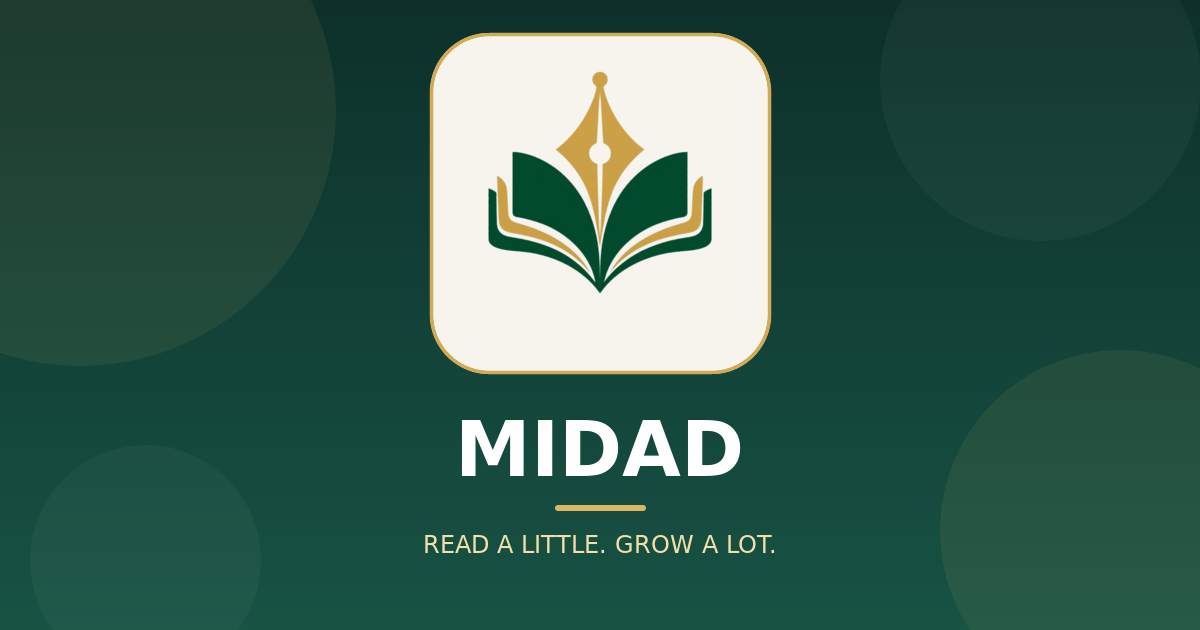
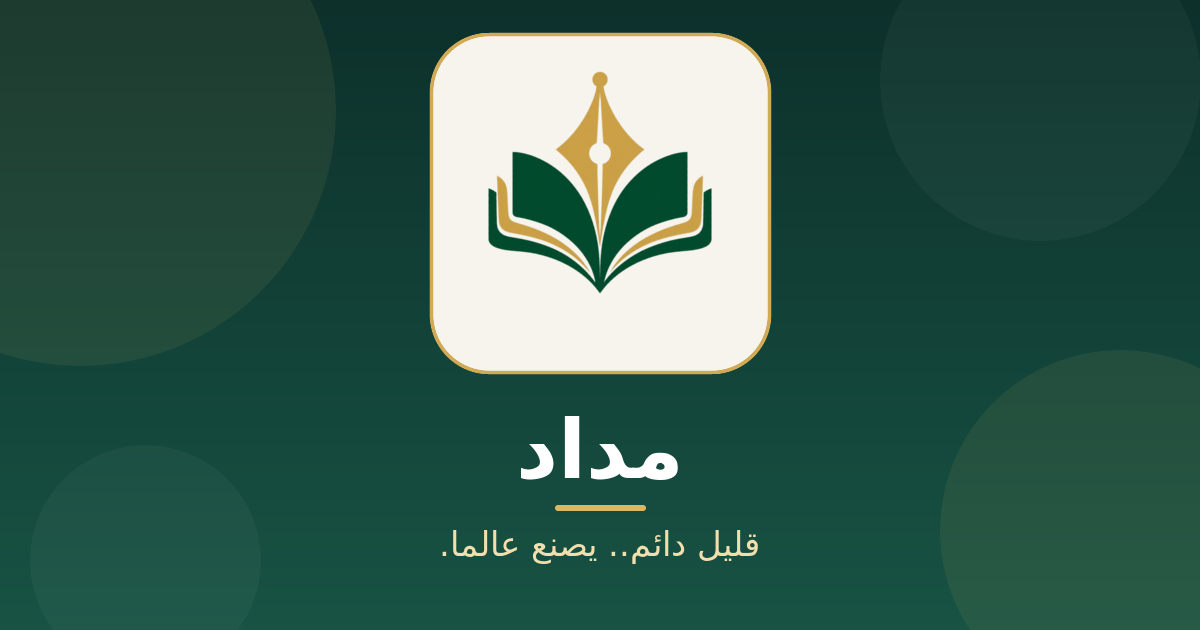
Improve reader fullscreen and timing flow

Changed region(s): [[0.37, 0.6635, 0.6167, 0.7841], [0.3392, 0.8444, 0.6475, 0.9048]]

diff --git a/src/reader.js b/src/reader.js
@@ -4,7 +4,7 @@ import { supabase, toast, escapeHtml, toArabicDigits } from './lib.js';
 
 pdfjsLib.GlobalWorkerOptions.workerSrc = workerUrl;
 
-const TOO_FAST_MSG = 'لم يكتمل وقت هذه الصفحة بعد. ابقَ عليها حتى ينتهي العداد؛ ستبقى في الصفحة نفسها.';
+const TOO_FAST_MSG = 'صايدينك! 🧐 ما شاء الله تقرأ بسرعة الضوء؟ ارجع كمّل الصفحة لا تتحمس.';
 const PENDING_KEY = 'midad_pending_confirm';
 
 function getPending() {
@@ -20,32 +20,25 @@ export async function renderReader(view, assignmentId) {
   let assignment = null;
   let book = null;
   let session = null;
-  let minSeconds = 60;
   let position = 0;
-  let pageShownAt = 0;
   let pageReady = false;
   let navigationInFlight = false;
   let finishing = false;
   let disposed = false;
   let renderVersion = 0;
   let renderTask = null;
-  let pageTimer = null;
+  let lastRenderWidth = 0;
   let resizeTimer = null;
   let resizeHandler = null;
   let onlineHandler = null;
   let hashChangeHandler = null;
+  let fullscreenHandler = null;
 
   const total = () => assignment.end_page - assignment.start_page + 1;
-
-  function clearPageTimer() {
-    if (pageTimer) clearInterval(pageTimer);
-    pageTimer = null;
-  }
 
   function cleanup() {
     if (disposed) return;
     disposed = true;
-    clearPageTimer();
     if (resizeTimer) clearTimeout(resizeTimer);
     try { renderTask?.cancel(); } catch { /* render may already have completed */ }
     renderTask = null;
@@ -56,6 +49,14 @@ export async function renderReader(view, assignmentId) {
     if (resizeHandler) window.removeEventListener('resize', resizeHandler);
     if (onlineHandler) window.removeEventListener('online', onlineHandler);
     if (hashChangeHandler) window.removeEventListener('hashchange', hashChangeHandler);
+    if (fullscreenHandler) document.removeEventListener('fullscreenchange', fullscreenHandler);
+    document.body.classList.remove('reader-fallback-fullscreen');
+    if (document.fullscreenElement === view) {
+      try {
+        const exitPromise = document.exitFullscreen?.();
+        if (exitPromise?.catch) exitPromise.catch(() => {});
+      } catch { /* fullscreen may already be closing */ }
+    }
   }
 
   function showMsg(text) {
@@ -65,39 +66,39 @@ export async function renderReader(view, assignmentId) {
 
   function updateNextAvailability() {
     const button = view.querySelector('#next-btn');
-    const hint = view.querySelector('#page-timer');
     if (!button) return;
-    if (disposed || navigationInFlight) {
-      button.disabled = true;
-      return;
-    }
-    if (!pageReady) {
-      button.disabled = true;
-      if (hint) hint.textContent = 'جارٍ عرض الصفحة…';
-      return;
-    }
-    if (position < session.current_position) {
-      button.disabled = false;
-      if (hint) hint.textContent = '';
-      return;
-    }
-
-    const remaining = Math.max(0, minSeconds - (Date.now() - pageShownAt) / 1000);
-    const seconds = Math.ceil(remaining);
-    button.disabled = remaining > 0;
-    if (hint) hint.textContent = remaining > 0
-      ? `يمكن الانتقال بعد ${toArabicDigits(seconds)} ثانية`
-      : '';
+    // Keep Next available at all times; the server decides whether enough time passed.
+    button.disabled = false;
+    button.setAttribute('aria-busy', String(navigationInFlight));
+    if (navigationInFlight) button.title = 'جارٍ التحقق من الصفحة…';
+    else button.removeAttribute('title');
   }
 
-  function startPageTimer() {
-    clearPageTimer();
-    updateNextAvailability();
-    if (!pageReady || position < session.current_position || minSeconds <= 0) return;
-    pageTimer = setInterval(() => {
-      updateNextAvailability();
-      if (Date.now() - pageShownAt >= minSeconds * 1000) clearPageTimer();
-    }, 250);
+  function updateFullscreenButton() {
+    const button = view.querySelector('#fullscreen-btn');
+    if (!button) return;
+    const active = document.fullscreenElement === view
+      || document.body.classList.contains('reader-fallback-fullscreen');
+    const label = button.querySelector('.fullscreen-label');
+    if (label) label.textContent = active ? 'إنهاء ملء الشاشة' : 'ملء الشاشة';
+    button.setAttribute('aria-pressed', String(active));
+  }
+
+  async function toggleFullscreen() {
+    const fallbackActive = document.body.classList.contains('reader-fallback-fullscreen');
+    if (document.fullscreenElement === view) {
+      try { await document.exitFullscreen(); } catch { /* browser may exit via Esc */ }
+    } else if (fallbackActive) {
+      document.body.classList.remove('reader-fallback-fullscreen');
+    } else {
+      try {
+        if (typeof view.requestFullscreen !== 'function') throw new Error('Fullscreen API unavailable');
+        await view.requestFullscreen();
+      } catch {
+        document.body.classList.add('reader-fallback-fullscreen');
+      }
+    }
+    updateFullscreenButton();
   }
 
   function cancelRender() {
@@ -107,7 +108,7 @@ export async function renderReader(view, assignmentId) {
     return renderVersion;
   }
 
-  function draw({ resetPageTimer = true } = {}) {
+  function draw() {
     if (disposed || !assignment || !book || !session) return;
     const pageCount = total();
     if (pageCount <= 0) return;
@@ -115,10 +116,6 @@ export async function renderReader(view, assignmentId) {
     const pdfPage = assignment.start_page + position;
     const renderToken = cancelRender();
     pageReady = false;
-    if (resetPageTimer) {
-      pageShownAt = 0;
-      clearPageTimer();
-    }
 
     const remaining = Math.max(0, pageCount - session.current_position);
     view.innerHTML = `
@@ -130,7 +127,12 @@ export async function renderReader(view, assignmentId) {
               صفحة PDF ${toArabicDigits(pdfPage)} · التقدم: ${toArabicDigits(session.current_position)} من ${toArabicDigits(pageCount)}
             </div>
           </div>
-          <a class="btn btn-sm" href="#/member">رجوع</a>
+          <div class="row reader-actions">
+            <button type="button" class="btn btn-sm" id="fullscreen-btn" aria-pressed="false">
+              <span aria-hidden="true">⛶</span><span class="fullscreen-label">ملء الشاشة</span>
+            </button>
+            <a class="btn btn-sm" href="#/member">رجوع</a>
+          </div>
         </div>
         <div class="reader-canvas-box" id="canvas-box" style="margin-top:10px">
           <canvas id="page-canvas" aria-label="صفحة الكتاب ${toArabicDigits(pdfPage)}"></canvas>
@@ -140,12 +142,12 @@ export async function renderReader(view, assignmentId) {
           <button type="button" class="btn" id="prev-btn" ${position === 0 ? 'disabled' : ''}>السابق</button>
           <span class="small muted">المتبقي: ${toArabicDigits(remaining)} ${remaining === 1 ? 'صفحة' : 'صفحات'}</span>
           <button type="button" class="btn btn-primary" id="next-btn">${position === pageCount - 1 ? 'إنهاء القراءة' : 'التالي'}</button>
-          <span class="small muted reader-timer" id="page-timer" aria-live="polite"></span>
         </div>
       </div>`;
 
     updateNextAvailability();
-    void renderCurrentPage(renderToken, pdfPage, resetPageTimer);
+    updateFullscreenButton();
+    void renderCurrentPage(renderToken, pdfPage);
 
     view.querySelector('#prev-btn').addEventListener('click', () => {
       if (navigationInFlight || position <= 0) return;
@@ -153,6 +155,7 @@ export async function renderReader(view, assignmentId) {
       draw();
     });
     view.querySelector('#next-btn').addEventListener('click', onNext);
+    view.querySelector('#fullscreen-btn').addEventListener('click', () => void toggleFullscreen());
 
     const box = view.querySelector('#canvas-box');
     let touchX = null;
@@ -173,7 +176,7 @@ export async function renderReader(view, assignmentId) {
     }, { passive: true });
   }
 
-  async function renderCurrentPage(renderToken, pdfPageNumber, resetPageTimer = false) {
+  async function renderCurrentPage(renderToken, pdfPageNumber) {
     const canvas = view.querySelector('#page-canvas');
     if (!canvas || !pdf || disposed) return;
     try {
@@ -181,6 +184,7 @@ export async function renderReader(view, assignmentId) {
       if (disposed || renderToken !== renderVersion || !canvas.isConnected) return;
 
       const containerWidth = canvas.parentElement?.clientWidth || view.clientWidth || window.innerWidth;
+      lastRenderWidth = containerWidth;
       const baseViewport = page.getViewport({ scale: 1 });
       const viewport = page.getViewport({ scale: containerWidth / baseViewport.width });
       const outputScale = Math.min(Math.max(window.devicePixelRatio || 1, 1), 2.5);
@@ -196,9 +200,8 @@ export async function renderReader(view, assignmentId) {
       await currentTask.promise;
       if (disposed || renderToken !== renderVersion || !canvas.isConnected) return;
 
-      if (resetPageTimer || !pageShownAt) pageShownAt = Date.now();
       pageReady = true;
-      startPageTimer();
+      updateNextAvailability();
     } catch (error) {
       if (error?.name === 'RenderingCancelledException' || error?.name === 'AbortException') return;
       if (!disposed && renderToken === renderVersion) {
@@ -230,9 +233,6 @@ export async function renderReader(view, assignmentId) {
     const bookResult = await supabase.from('books').select('*').eq('id', assignment.book_id).single();
     if (bookResult.error) throw bookResult.error;
     book = bookResult.data;
-
-    const settingsResult = await supabase.from('app_settings').select('min_page_seconds').eq('id', 1).maybeSingle();
-    if (settingsResult.data) minSeconds = Math.max(0, Number(settingsResult.data.min_page_seconds) || 0);
 
     const { data: signed, error: signError } = await supabase.storage
       .from('books').createSignedUrl(book.storage_path, 3600);
@@ -275,7 +275,11 @@ export async function renderReader(view, assignmentId) {
 
   async function onNext() {
     const button = view.querySelector('#next-btn');
-    if (!button || button.disabled || navigationInFlight || disposed || !pageReady) return;
+    if (!button || navigationInFlight || disposed) return;
+    if (!pageReady) {
+      showMsg('جارٍ عرض الصفحة؛ جرّب الضغط مجددًا بعد اكتمال العرض.');
+      return;
+    }
     if (session.status === 'completed' || session.current_position >= total()) {
       await finishReading();
       return;
@@ -293,14 +297,9 @@ export async function renderReader(view, assignmentId) {
       return;
     }
 
-    if ((Date.now() - pageShownAt) / 1000 < minSeconds) {
-      updateNextAvailability();
-      showMsg(TOO_FAST_MSG);
-      return;
-    }
-
     navigationInFlight = true;
     updateNextAvailability();
+    showMsg('جارٍ التحقق من الصفحة…');
     try {
       const confirmation = await confirmCurrentPage();
       if (disposed) return;
@@ -321,11 +320,9 @@ export async function renderReader(view, assignmentId) {
       if (disposed) return;
       const message = String(error?.message || '');
       if (message.includes('too_fast')) {
-        // Keep the same page visible and wait again; a rejected confirmation
-        // must not reset or move the reader to an earlier page.
-        pageShownAt = Date.now();
+        // The server remains authoritative; rejected attempts never advance or
+        // redraw the current page, and the student can continue reading.
         showMsg(TOO_FAST_MSG);
-        startPageTimer();
       } else if (message.includes('wrong_order') || message.includes('already_finished') || message.includes('already_completed')) {
         try { await syncSessionFromServer(); }
         catch (syncError) { toast('تعذر مزامنة التقدم: ' + syncError.message, 'error'); }
@@ -395,6 +392,9 @@ export async function renderReader(view, assignmentId) {
       });
       let confirmed = !error;
       let freshSession = null;
+      if (error && String(error.message || '').includes('too_fast') && session?.id === pending.session_id) {
+        showMsg(TOO_FAST_MSG);
+      }
       if (error && ['wrong_order', 'already_finished', 'already_completed'].some((code) => String(error.message || '').includes(code))) {
         const result = await supabase.from('reading_sessions').select('*').eq('id', pending.session_id).single();
         freshSession = result.data;
@@ -440,20 +440,27 @@ export async function renderReader(view, assignmentId) {
   resizeHandler = () => {
     if (resizeTimer) clearTimeout(resizeTimer);
     resizeTimer = setTimeout(() => {
-      if (disposed || !pdf || !view.querySelector('#page-canvas')) return;
+      const canvas = view.querySelector('#page-canvas');
+      if (disposed || !pdf || !canvas) return;
+      const width = canvas.parentElement?.clientWidth || view.clientWidth || window.innerWidth;
+      // Mobile browser chrome can trigger frequent height-only resize events.
+      // Redraw only when the actual PDF viewport width changed.
+      if (Math.abs(width - lastRenderWidth) < 2) return;
       const token = cancelRender();
       pageReady = false;
       updateNextAvailability();
-      void renderCurrentPage(token, assignment.start_page + position, false);
+      void renderCurrentPage(token, assignment.start_page + position);
     }, 250);
   };
   onlineHandler = flushPending;
   hashChangeHandler = () => {
     if (location.hash !== `#/read/${assignmentId}`) cleanup();
   };
+  fullscreenHandler = updateFullscreenButton;
   window.addEventListener('resize', resizeHandler);
   window.addEventListener('online', onlineHandler);
   window.addEventListener('hashchange', hashChangeHandler);
+  document.addEventListener('fullscreenchange', fullscreenHandler);
 
   try {
     await load();

diff --git a/index.html b/index.html
@@ -17,8 +17,8 @@
   <meta property="og:url" content="https://mohammedalhinaki-cloud.github.io/midad-kimi/" />
   <meta property="og:title" content="مِداد — قليلٌ دائم.. يصنع عالِماً." />
   <meta property="og:description" content="مساحة عربية للقراءة الجماعية؛ نقرأ قليلاً كل يوم ونصنع أثراً يدوم." />
-  <meta property="og:image" content="https://mohammedalhinaki-cloud.github.io/midad-kimi/og-image.png" />
-  <meta property="og:image:secure_url" content="https://mohammedalhinaki-cloud.github.io/midad-kimi/og-image.png" />
+  <meta property="og:image" content="https://mohammedalhinaki-cloud.github.io/midad-kimi/og-image-ar.png" />
+  <meta property="og:image:secure_url" content="https://mohammedalhinaki-cloud.github.io/midad-kimi/og-image-ar.png" />
   <meta property="og:image:type" content="image/png" />
   <meta property="og:image:width" content="1200" />
   <meta property="og:image:height" content="630" />
@@ -26,7 +26,7 @@
   <meta name="twitter:card" content="summary_large_image" />
   <meta name="twitter:title" content="مِداد — قليلٌ دائم.. يصنع عالِماً." />
   <meta name="twitter:description" content="مساحة عربية للقراءة الجماعية؛ نقرأ قليلاً كل يوم ونصنع أثراً يدوم." />
-  <meta name="twitter:image" content="https://mohammedalhinaki-cloud.github.io/midad-kimi/og-image.png" />
+  <meta name="twitter:image" content="https://mohammedalhinaki-cloud.github.io/midad-kimi/og-image-ar.png" />
   <link rel="preconnect" href="https://fonts.googleapis.com" />
   <link rel="preconnect" href="https://fonts.gstatic.com" crossorigin />
   <link href="https://fonts.googleapis.com/css2?family=IBM+Plex+Sans+Arabic:wght@400;500;600;700&display=swap" rel="stylesheet" />

diff --git a/src/style.css b/src/style.css
@@ -216,7 +216,15 @@ p { margin: 6px 0; }
 .reader-canvas-box { width: 100%; background: #111; border-radius: var(--radius); overflow: hidden; }
 .reader-canvas-box canvas { display: block; width: 100%; height: auto; background: #fff; }
 .reader-bar { display: flex; align-items: center; justify-content: space-between; gap: 8px; margin-top: 10px; flex-wrap: wrap; }
-.reader-timer { min-width: 100%; text-align: center; }
+.reader-actions { gap: 6px; }
+.reader-page:fullscreen { width: 100%; height: 100%; min-height: 100%; overflow-y: auto; background: var(--bg); }
+.reader-page:fullscreen .reader-wrap { min-height: 100%; padding: 12px; }
+body.reader-fallback-fullscreen { overflow: hidden; }
+body.reader-fallback-fullscreen .topbar { display: none !important; }
+body.reader-fallback-fullscreen .reader-page {
+  position: fixed; inset: 0; z-index: 1001; width: 100vw; height: 100vh; height: 100dvh;
+  overflow-y: auto; background: var(--bg);
+}
 @media (max-width: 600px) { .reader-wrap { padding: 8px; } }
 .reader-msg {
   background: #fff7e6; border: 1px solid var(--gold); color: #7a5b12;
